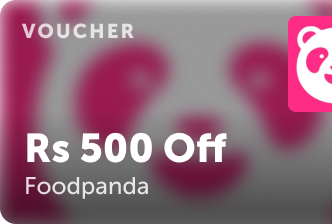
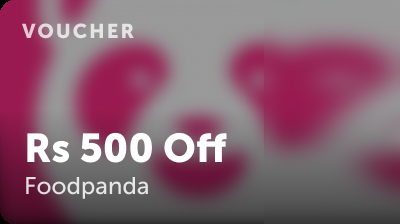
Fill state for Live TV artwork; rebuild the truncated Foodpanda voucher
Live channels: the 480x270 artwork was set to object-fit: contain inside
16:9 tiles, so it sat inset with grey bars. Switch the homepage row tile,
the guide/all-channels rows and the now-playing chip to cover. All 91
files are exactly 16:9 and every box is now 16:9 too (.ltv-logo moves
from 72x44 to an aspect-ratio box), so this is pure fill with zero crop.

Foodpanda voucher: Frame 1087008.png shipped 332x224 where the Careem
one is 400x224 — the export was cut 68px short, slicing the panda mark
in half at the image's right edge. The missing pixels aren't recoverable
and the mark is not symmetric, so the logo can't be reconstructed
faithfully. Rebuilt the file at 400x224 instead: text and background
kept as-is, the clean background band mirrored and stretched to fill the
extra width, and the half logo dropped. Vouchers can now use cover as
well, so the card fills its tile with no letterboxing.

The Foodpanda card has no brand mark until a full-width re-export lands.

diff --git a/index.html b/index.html
@@ -493,8 +493,8 @@
       position: absolute; inset: 0;
       width: 100% !important; height: 100% !important;
       max-width: none; max-height: none;
-      object-fit: contain;          /* artwork already has its own backdrop */
-      background: #d9d9de;
+      object-fit: cover;            /* 16:9 artwork fills the 16:9 tile edge to edge */
+      background: #d9d9de;          /* only visible while the image loads */
     }
     .live-pill {
       position: absolute; top: 10px; right: 10px;
@@ -1563,7 +1563,7 @@
     .ltv-close { width: 40px; height: 40px; border-radius: 50%; border: 1px solid rgba(255,255,255,.3); background: rgba(0,0,0,.5); color: #fff; font-size: 18px; cursor: pointer; display: grid; place-items: center; flex-shrink: 0; }
     .ltv-close:hover { background: rgba(255,255,255,.18); }
     .ltv-now { display: flex; align-items: center; gap: 11px; font-family: var(--heading-font); font-size: 18px; font-weight: 800; color: #fff; }
-    .ltv-now-logo { width: 64px; height: 36px; object-fit: contain; border-radius: 6px; background: #d9d9de; flex-shrink: 0; }
+    .ltv-now-logo { width: 64px; height: 36px; object-fit: cover; border-radius: 6px; background: #d9d9de; flex-shrink: 0; }
     .ltv-live-tag { display: inline-flex; align-items: center; gap: 6px; background: #ED2B1F; color: #fff; font-family: var(--body-font); font-size: 11px; font-weight: 800; letter-spacing: .05em; padding: 4px 10px 4px 8px; border-radius: 5px; }
     .ltv-live-tag .live-dot { width: 6px; height: 6px; border-radius: 50%; background: #fff; animation: livePulse 1.6s infinite; }
     .ltv-menu-btn { display: inline-flex; align-items: center; gap: 8px; background: rgba(255,255,255,.14); color: #fff; border: 1px solid rgba(255,255,255,.25); border-radius: 8px; padding: 9px 16px; font-family: var(--body-font); font-size: 14px; font-weight: 700; cursor: pointer; backdrop-filter: blur(6px); }
@@ -1586,7 +1586,8 @@
     .ltv-item { display: grid; grid-template-columns: 72px 1fr; align-items: center; gap: 16px; width: 100%; text-align: left; background: none; border: none; color: #fff; cursor: pointer; padding: 12px 16px; border-radius: 12px; transition: background .12s; }
     .ltv-item:hover { background: rgba(255,255,255,.08); }
     .ltv-item.is-playing { background: rgba(255,255,255,.10); }
-    .ltv-logo { width: 72px; height: 44px; object-fit: contain; flex-shrink: 0; border-radius: 5px; background: #d9d9de; }
+    /* 16:9 so the channel artwork fills the tile without being cropped */
+    .ltv-logo { width: 72px; aspect-ratio: 16 / 9; height: auto; object-fit: cover; flex-shrink: 0; border-radius: 5px; background: #d9d9de; }
     .ltv-meta { min-width: 0; border-left: 2px solid rgba(255,255,255,.14); padding-left: 16px; }
     .ltv-watching { display: inline-flex; align-items: center; gap: 6px; font-size: 11px; font-weight: 800; letter-spacing: .08em; color: #fff; margin-bottom: 5px; }
     .ltv-watching .live-dot { width: 7px; height: 7px; border-radius: 50%; background: #ED2B1F; }
@@ -1609,7 +1610,7 @@
       .ltv-guide { width: 100%; background: rgba(0,0,0,.92); padding-top: 12px; }
       .ltv-guide-head { padding: 0 16px 10px; }
       .ltv-item { grid-template-columns: 56px 1fr; gap: 12px; padding: 10px 12px; }
-      .ltv-logo { width: 56px; height: 34px; }
+      .ltv-logo { width: 56px; height: auto; }
       .ltv-name { font-size: 16px; }
       .ltv-now { font-size: 15px; }
       .ltv-all { padding: 20px 16px 50px; }
@@ -1929,7 +1930,8 @@
       border: 1px solid rgba(255,255,255,.07);
     }
     .card-wrap.voucher .card-inner img {
-      object-fit: contain;          /* voucher art carries its own text — never crop it */
+      /* both vouchers are 400x224, so cover fills the 16:9 tile with no bars */
+      object-fit: cover;
       object-position: center center;
     }
     .shop-redeem {
